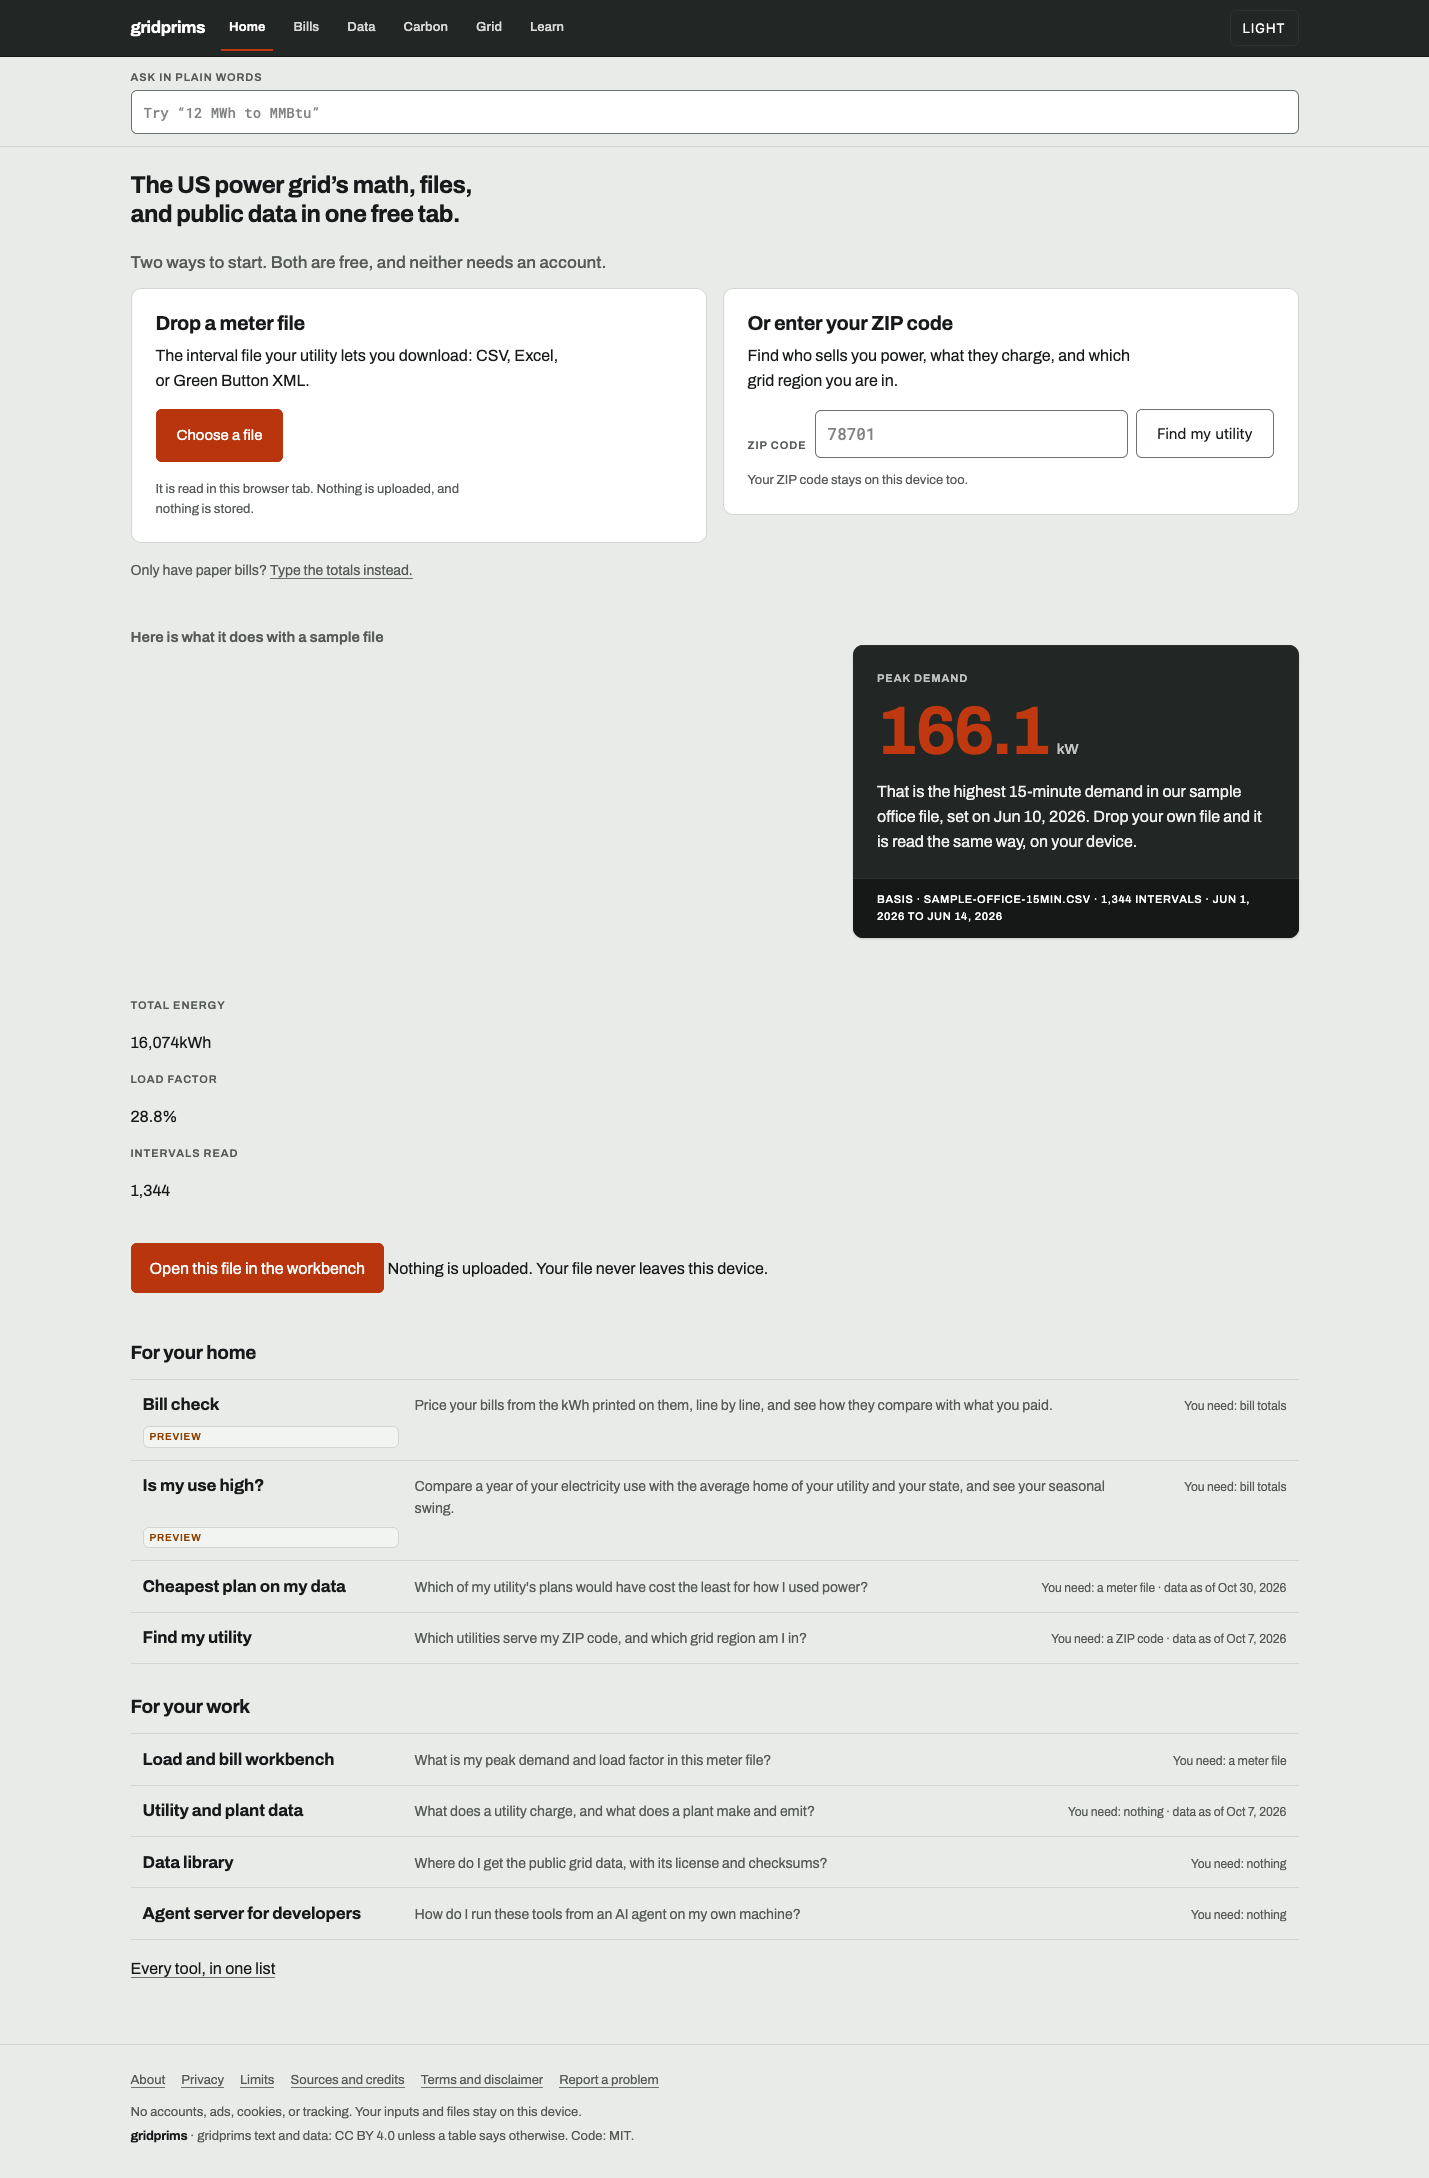
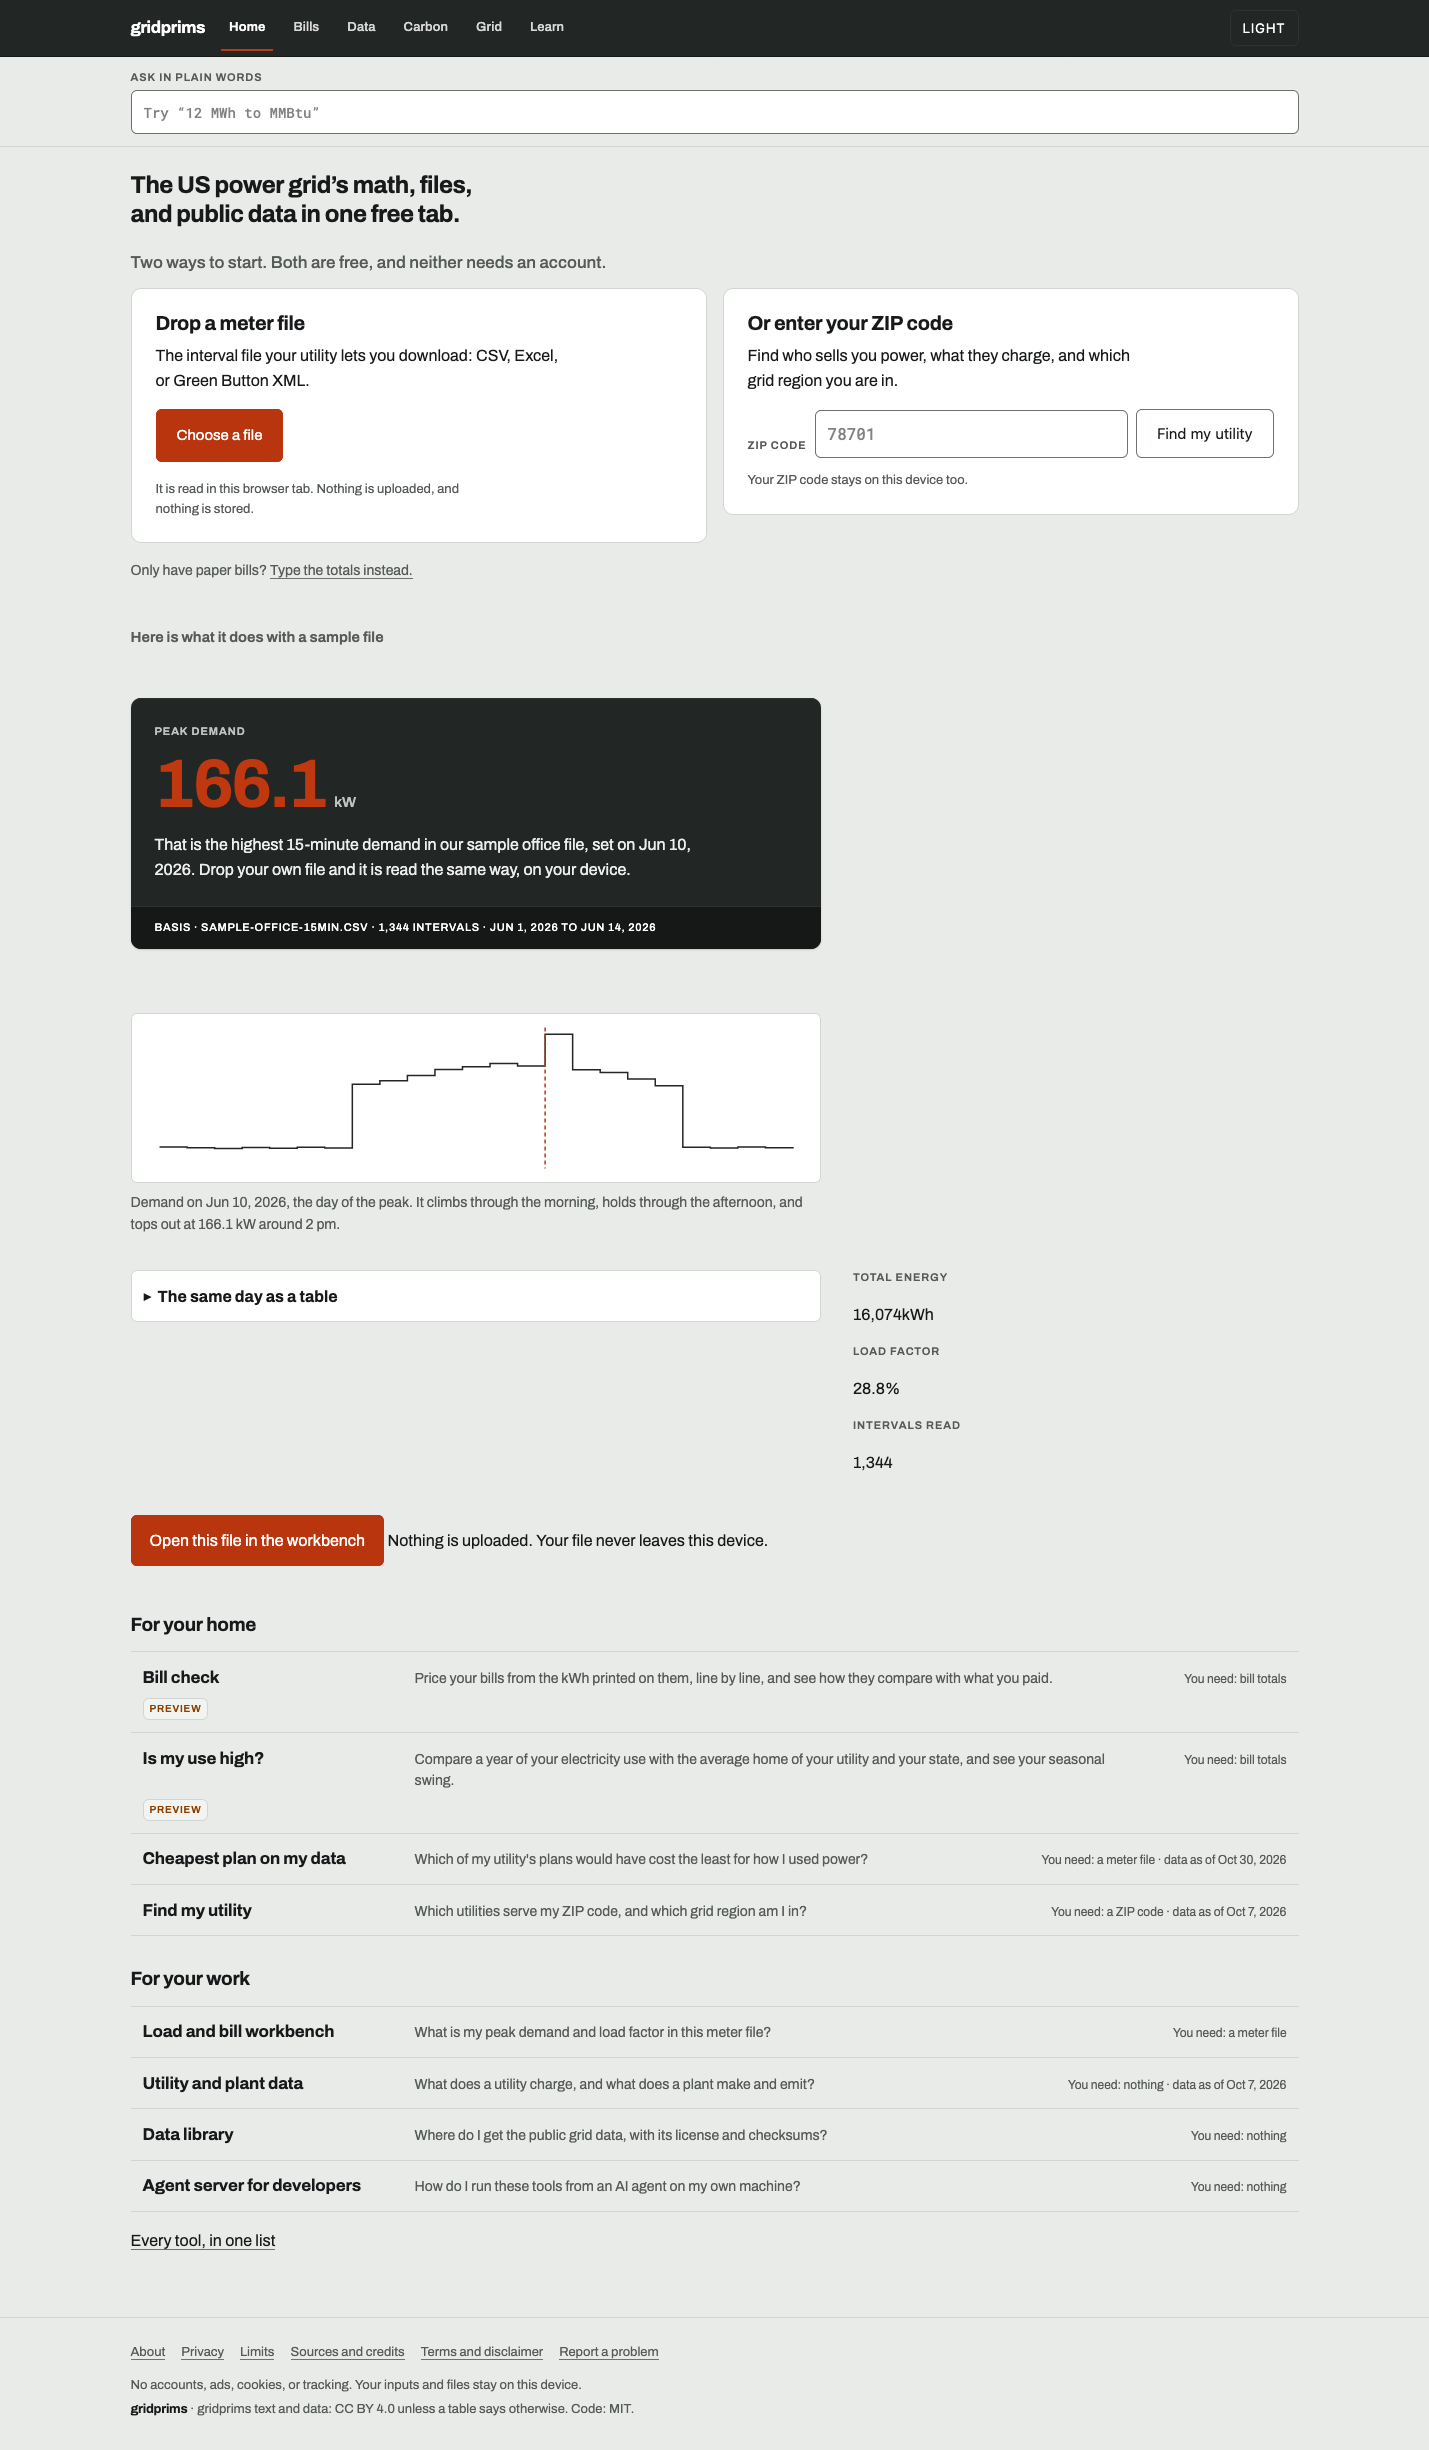
feat(site): draw the sample day's load curve beside the plate
The direction contract named a stepped load curve with the peak marked
and it was never built, which is why the column beside the plate was
empty. The build now averages the peak day hour by hour and the page
draws it as an inline stepped SVG, server-rendered, with the peak hour
marked in signal orange. Demand holds across each hour rather than
sloping between hours, because that is what a demand meter records.

Every chart owes a text summary and a table view (platform/app-shell),
so the figure carries a caption naming the day, the shape and the peak,
and a details panel holds the same 24 hours as a table.

The chart rules are written as .proof .proof-chart rather than
.proof-chart, so they beat the later generic .chart svg rules whatever
their order in the file. Three edits in this stylesheet have already
been lost to exactly that: the first attempt here rendered the curve
691 px tall instead of 170.

diff --git a/site/styles/site.css b/site/styles/site.css
@@ -104,6 +104,7 @@ main { padding-bottom: var(--s7); }
 @media (min-width: 900px) {
   .proof { display: grid; grid-template-columns: minmax(0, 1.55fr) minmax(0, 1fr); gap: var(--s5) var(--s6); align-items: start; }
   .proof-title { grid-column: 1 / -1; }
+  .proof-chart, .proof-table { grid-column: 1; }
   .proof .figures { grid-template-columns: 1fr; margin: 0; gap: var(--s3); }
   .proof-actions { grid-column: 1 / -1; margin: 0; }
 }
@@ -346,6 +347,16 @@ blockquote { border-left: 1px solid var(--field-border); margin: var(--s3) 0; pa
   .doors { grid-template-columns: 1fr 1fr; align-items: start; }
   .start-title { grid-column: 1 / -1; margin-bottom: 0; }
 }
+
+/* The curve beside the plate. Two classes, so these beat the later .chart svg rules
+   whatever the order: three edits in this file have already been lost to that. */
+.proof .proof-chart { margin: var(--s4) 0 0; }
+.proof .proof-chart svg { height: 170px; border: 1px solid var(--line); border-radius: var(--r-field); background: var(--panel); }
+.proof .proof-chart .series { stroke-width: 1.5; }
+.proof .proof-chart figcaption { margin-top: var(--s2); }
+.proof .peak-mark { stroke: var(--signal); stroke-width: 1.5; stroke-dasharray: 4 3; vector-effect: non-scaling-stroke; }
+.proof .proof-table { margin: var(--s3) 0 0; padding: var(--s3); }
+.proof .proof-table table { margin-top: var(--s2); }
 
 /* The phone first screen (site/home-and-navigation): the proof keeps one real
    number, and both lanes still start above the fold. Last in the file so these
